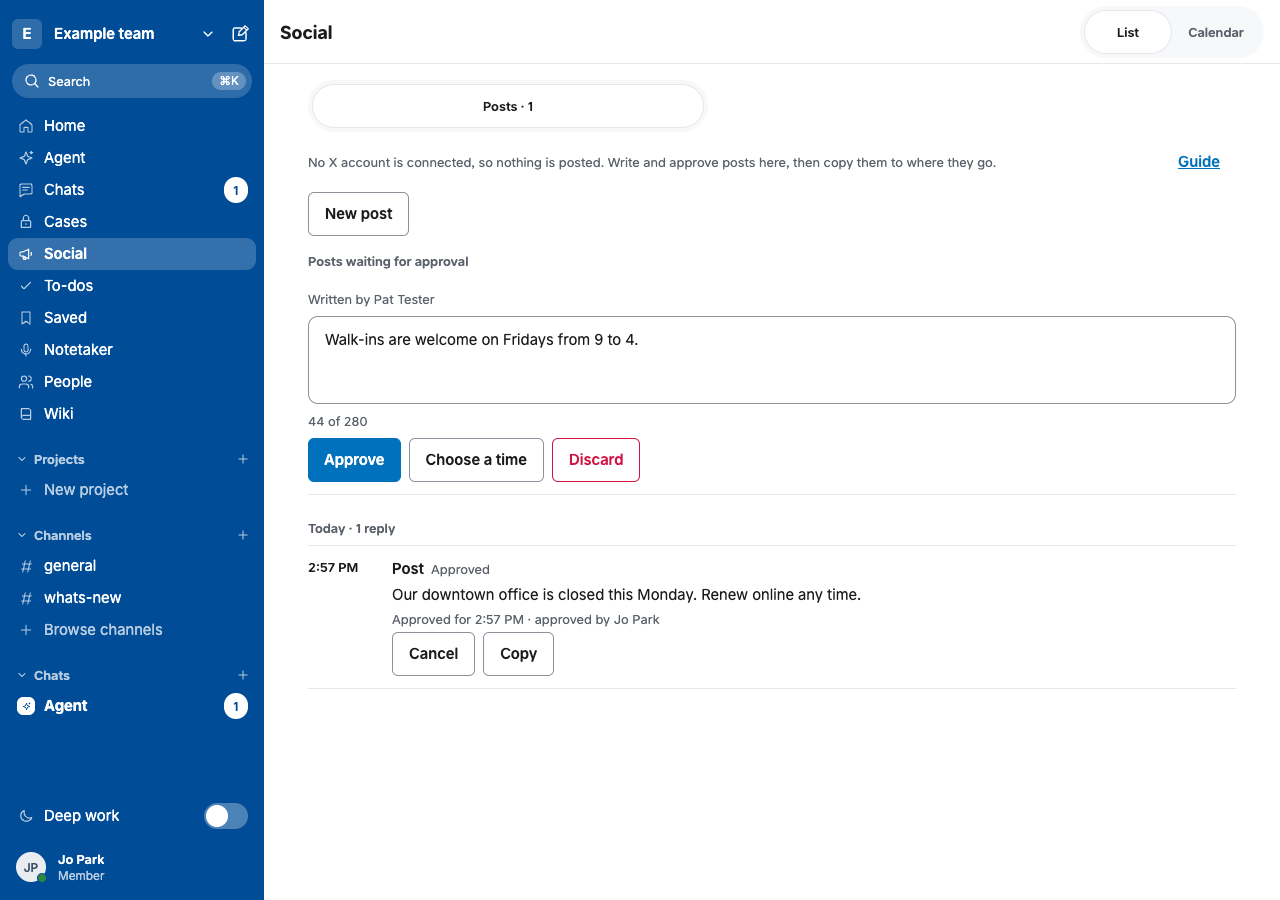
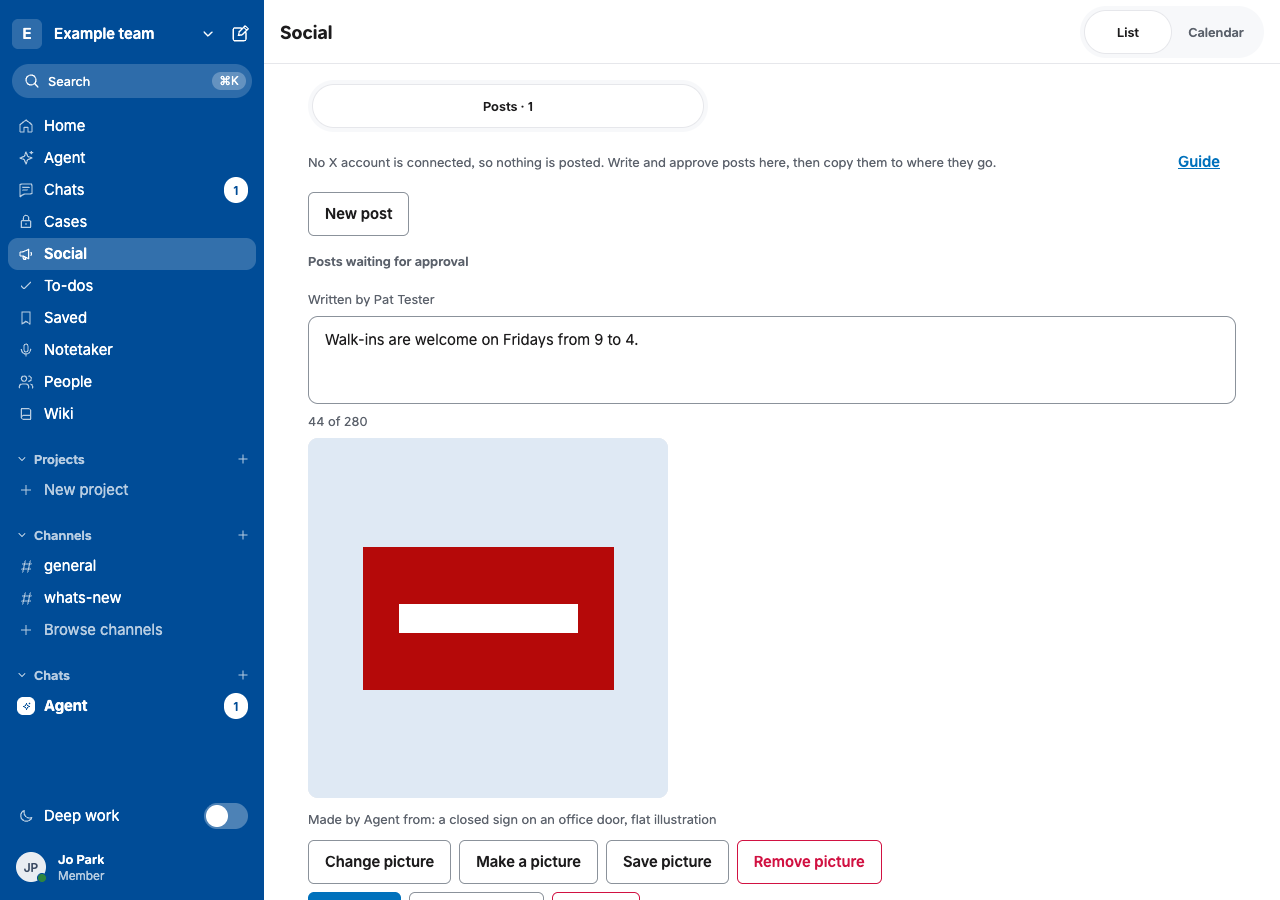
Social media: a post can carry a picture, attached or made by the asker's own agent
One picture per reply or post: Add picture attaches one, Make a picture asks Agent from a few words, Save picture
downloads it. A new picture needs a new approval, and earlier pictures are kept. Servant does not send pictures to X
yet, so a post with one is never posted there as words alone.

Changed region(s): [[0.2188, 0.4667, 0.6875, 1.0]]

diff --git a/app/src/components/SocialPicture.tsx b/app/src/components/SocialPicture.tsx
@@ -1,0 +1,98 @@
+import { useEffect, useRef, useState } from "react";
+import { Image, StyleSheet, Text, TextInput, View } from "react-native";
+import { Button, ButtonGroup } from "./Button";
+import { pickAttachments } from "./Attachments";
+import { shareAttachment } from "./MediaGallery";
+import type { Account } from "../lib/server";
+import { pictureLine, type SocialReply } from "../lib/social";
+import { socialApi } from "../lib/social-api";
+import { createThemedStyles, radius, space, typography, useTheme } from "../lib/theme";
+
+const said = (reason: unknown, fallback: string) => reason instanceof Error && reason.message ? reason.message : fallback;
+
+/**
+ * The picture a post carries. While the post can still change (`onReply` given) someone can attach one, ask Agent
+ * to make one from a few words, or take it off; a new picture needs a new approval, like new words. Anyone can
+ * save the picture, to post it by hand where Servant doesn't.
+ */
+export function SocialPicture({ account, reply, label, onReply }: {
+  account: Account; reply: SocialReply;
+  /** What the post is, for button labels: "Post" or "Reply to Jo Park (@jopark)". */
+  label: string;
+  /** The reply after its picture changed. Absent when the post can no longer change. */
+  onReply?: (reply: SocialReply) => void;
+}) {
+  const styles = useStyles();
+  const { colors } = useTheme();
+  const [shown, setShown] = useState<{ id: string; mime: string; data: string } | null>(null);
+  const [busy, setBusy] = useState<"attach" | "make" | "remove" | "save" | null>(null);
+  const [asking, setAsking] = useState(false);
+  const [prompt, setPrompt] = useState("");
+  const [error, setError] = useState("");
+  const mounted = useRef(true);
+  useEffect(() => { mounted.current = true; return () => { mounted.current = false; }; }, []);
+
+  const imageId = reply.image?.id;
+  useEffect(() => {
+    if (!imageId) return;
+    const stop = new AbortController();
+    socialApi.image(account, reply.id, stop.signal)
+      .then(file => { if (!stop.signal.aborted) setShown({ id: imageId, mime: file.mime, data: file.data }); })
+      .catch(reason => { if (!stop.signal.aborted) setError(said(reason, "Couldn't load the picture. Open Social again.")); });
+    return () => stop.abort();
+  }, [account, reply.id, imageId]);
+
+  const run = async (what: NonNullable<typeof busy>, work: () => Promise<void>, failed: string) => {
+    if (busy) return;
+    setBusy(what); setError("");
+    try { await work(); } catch (reason) { if (mounted.current) setError(said(reason, failed)); } finally { if (mounted.current) setBusy(null); }
+  };
+  const attach = () => run("attach", async () => {
+    const [file] = await pickAttachments(true, [], { limit: 1, imagesOnly: true });
+    if (!file) return;
+    onReply?.((await socialApi.attachImage(account, reply.id, { name: file.name, data: file.data })).reply);
+  }, "Couldn't attach that picture. Try again.");
+  const make = () => run("make", async () => {
+    const next = (await socialApi.makeImage(account, reply.id, prompt.trim())).reply;
+    if (mounted.current) { setAsking(false); setPrompt(""); }
+    onReply?.(next);
+  }, "Agent couldn't make a picture. Try again, or attach one.");
+
+  const image = reply.image;
+  const loaded = image && shown?.id === image.id ? shown : null;
+  return <View testID={`social-picture-${reply.id}`} style={styles.root}>
+    {image ? <>
+      {loaded
+        ? <Image testID={`social-image-${reply.id}`} accessibilityLabel={image.byAgent && image.prompt ? `Picture for this post, made by Agent: ${image.prompt}` : `Picture for this post: ${image.name}`} source={{ uri: `data:${loaded.mime};base64,${loaded.data}` }} resizeMode="contain" style={styles.image} />
+        : <View style={[styles.image, styles.waiting]}><Text style={styles.meta}>{error ? "The picture didn't load." : "Loading the picture…"}</Text></View>}
+      <Text style={styles.meta}>{pictureLine(image)}</Text>
+    </> : null}
+    {asking ? <View style={styles.askRow}>
+      <TextInput testID={`social-picture-prompt-${reply.id}`} accessibilityLabel="What the picture should show" placeholder="What should the picture show? For example: a closed sign on an office door, flat illustration" placeholderTextColor={colors.muted}
+        value={prompt} onChangeText={setPrompt} maxLength={500} editable={!busy} autoFocus style={styles.ask} />
+      <ButtonGroup>
+        <Button testID={`social-picture-go-${reply.id}`} label="Ask Agent" compact busy={busy === "make"} disabled={!prompt.trim() || !!busy} onPress={() => void make()} />
+        <Button label="Cancel" kind="link" compact disabled={!!busy} onPress={() => { setAsking(false); setPrompt(""); setError(""); }} />
+      </ButtonGroup>
+      {busy === "make" ? <Text style={styles.meta}>Agent is making the picture. This can take a minute.</Text> : null}
+    </View> : <ButtonGroup>
+      {onReply ? <Button testID={`social-picture-add-${reply.id}`} label={image ? "Change picture" : "Add picture"} accessibilityLabel={`${image ? "Change" : "Add"} picture: ${label}`} kind="secondary" compact busy={busy === "attach"} disabled={!!busy} onPress={() => void attach()} /> : null}
+      {onReply ? <Button testID={`social-picture-make-${reply.id}`} label="Make a picture" accessibilityLabel={`Ask Agent to make a picture: ${label}`} kind="secondary" compact disabled={!!busy} onPress={() => { setError(""); setAsking(true); }} /> : null}
+      {image && loaded ? <Button testID={`social-picture-save-${reply.id}`} label="Save picture" accessibilityLabel={`Save picture: ${label}`} kind="secondary" compact busy={busy === "save"} disabled={!!busy}
+        onPress={() => void run("save", () => shareAttachment({ id: image.id, name: image.name, mime: image.mime, size: image.size }, loaded.data), "Couldn't save the picture. Try again.")} /> : null}
+      {image && onReply ? <Button testID={`social-picture-remove-${reply.id}`} label="Remove picture" accessibilityLabel={`Remove picture: ${label}`} kind="danger" compact busy={busy === "remove"} disabled={!!busy}
+        onPress={() => void run("remove", async () => { onReply((await socialApi.removeImage(account, reply.id)).reply); }, "Couldn't remove the picture. Try again.")} /> : null}
+    </ButtonGroup>}
+    {error ? <Text accessibilityRole="alert" style={styles.error}>{error}</Text> : null}
+  </View>;
+}
+
+const useStyles = createThemedStyles(({ colors, controls }) => StyleSheet.create({
+  root: { gap: space.sm },
+  image: { width: "100%", maxWidth: 360, aspectRatio: 1, borderRadius: radius.md, backgroundColor: colors.line },
+  waiting: { alignItems: "center", justifyContent: "center" },
+  meta: { ...typography.caption, color: colors.muted },
+  askRow: { gap: space.sm },
+  ask: { ...controls.input },
+  error: { ...typography.caption, color: colors.danger },
+}));

diff --git a/app/src/lib/social.test.ts b/app/src/lib/social.test.ts
@@ -1,6 +1,6 @@
 import assert from "node:assert/strict";
 import test from "node:test";
-import { agoLabel, cellLabel, connectionLine, dayKey, lengthLine, monthGrid, monthRange, parseWhen, replyBadge, replyLine, replyTarget, scheduleDays, socialDayLabel, socialWhen, sourceLine, stepMonth, undrafted, whenChoices, xLength, type SocialPost, type SocialReply } from "./social.ts";
+import { agoLabel, cellLabel, connectionLine, pictureLine, dayKey, lengthLine, monthGrid, monthRange, parseWhen, replyBadge, replyLine, replyTarget, scheduleDays, socialDayLabel, socialWhen, sourceLine, stepMonth, undrafted, whenChoices, xLength, type SocialPost, type SocialReply } from "./social.ts";
 import { DESTINATIONS, destinationGroups, reachable } from "./destinations.ts";
 import { ALL_FEATURES, normalizeFeatures, sameFeatures, withDeepWork } from "./features.ts";
 import { wikiMarkLabel, wikiMarkNote, wikiRows, type WikiPageSummary } from "./wiki.ts";
@@ -108,6 +108,7 @@ test("a time is chosen from three quick ones or typed", () => {
 
 test("the connection line and the posts left to draft", () => {
   assert.equal(connectionLine({ account: null, error: null, syncedAt: null }, NOW), "Connecting to X…");
+  assert.deepEqual([pictureLine({ id: "i", name: "closed.png", mime: "image/png", size: 9, byAgent: false }), pictureLine({ id: "i", name: "agent-image.png", mime: "image/png", size: 9, byAgent: true, prompt: "a closed sign" }), pictureLine({ id: "i", name: "agent-image.png", mime: "image/png", size: 9, byAgent: true })], ["closed.png", "Made by Agent from: a closed sign", "Made by Agent"]);
   // A server with no X account says so, and an approved post is never described as about to go out.
   assert.equal(connectionLine({ account: null, error: null, syncedAt: null, connected: false }, NOW), "No X account is connected, so nothing is posted. Write and approve posts here, then copy them to where they go.");
   assert.equal(replyBadge({ status: "scheduled" }, false), "Approved");

diff --git a/app/src/components/SocialPost.tsx b/app/src/components/SocialPost.tsx
@@ -4,6 +4,7 @@ import { router } from "expo-router";
 import { Button, ButtonGroup } from "./Button";
 import { Avatar } from "./Messaging";
 import { Radio } from "./Radio";
+import { SocialPicture } from "./SocialPicture";
 import type { Account } from "../lib/server";
 import { agoLabel, lengthLine, NEEDS_ENTITLEMENT, parseWhen, replyLine, sourceLine, whenChoices, type SocialPost, type SocialReply } from "../lib/social";
 import { socialApi } from "../lib/social-api";
@@ -154,6 +155,7 @@ export function SocialReplyEditor({ account, reply, to, canApprove, limit, onRep
     <TextInput testID={`social-text-${reply.id}`} accessibilityLabel={label} value={text} onChangeText={setText} onBlur={save} multiline editable={busy !== "approve" && busy !== "discard" && busy !== "redraft"}
       placeholderTextColor={colors.muted} style={styles.input} />
     <Text testID={`social-count-${reply.id}`} style={[styles.meta, count.over && styles.over]}>{count.over ? `${count.text}. Shorten it before it can be approved.` : count.text}</Text>
+    <SocialPicture account={account} reply={reply} label={label} onReply={onReply} />
     {asking && onRedraft ? <View style={styles.askRow}>
       <TextInput testID={`social-instruction-${reply.id}`} accessibilityLabel="What Agent should change" placeholder="What should change? For example: shorter, or mention the help page" placeholderTextColor={colors.muted}
         value={instruction} onChangeText={setInstruction} maxLength={500} editable={!busy} autoFocus style={styles.ask} />

diff --git a/app/src/lib/social-api.ts b/app/src/lib/social-api.ts
@@ -26,4 +26,10 @@ export const socialApi = {
   approve: (account: Account, replyId: string, at?: number) => request(account, `${reply(replyId)}/approve`, send("POST", at ? { at } : {})).then(json<{ reply: SocialReply }>),
   cancel: (account: Account, replyId: string) => request(account, `${reply(replyId)}/cancel`, send("POST")).then(json<{ reply: SocialReply }>),
   discard: (account: Account, replyId: string) => request(account, `${reply(replyId)}/discard`, send("POST")).then(json<{ reply: SocialReply; post: SocialPost | null }>),
+  /** A picture someone attached: { name, data } with the bytes in base64. It replaces any the post had. */
+  attachImage: (account: Account, replyId: string, file: { name: string; data: string }) => request(account, `${reply(replyId)}/image`, send("PUT", { attachments: [{ name: file.name, data: file.data }] })).then(json<{ reply: SocialReply }>),
+  /** A picture the person's own agent makes from a few words. */
+  makeImage: (account: Account, replyId: string, prompt: string) => request(account, `${reply(replyId)}/image`, send("PUT", { prompt })).then(json<{ reply: SocialReply }>),
+  removeImage: (account: Account, replyId: string) => request(account, `${reply(replyId)}/image`, send("DELETE")).then(json<{ reply: SocialReply }>),
+  image: (account: Account, replyId: string, signal?: AbortSignal) => request(account, `${reply(replyId)}/image`, { signal }).then(json<{ name: string; mime: string; data: string }>),
 };

diff --git a/app/src/components/SocialSchedule.tsx b/app/src/components/SocialSchedule.tsx
@@ -2,6 +2,7 @@ import { useState } from "react";
 import { Linking, Pressable, StyleSheet, Text, View } from "react-native";
 import * as Clipboard from "expo-clipboard";
 import { Button, ButtonGroup } from "./Button";
+import { SocialPicture } from "./SocialPicture";
 import type { Account } from "../lib/server";
 import { cellLabel, monthGrid, monthTitle, replyBadge, replyLine, replyTarget, replyTime, scheduleDays, socialDayLabel, stepMonth, type CalendarCell, type SocialReply } from "../lib/social";
 import { socialApi } from "../lib/social-api";
@@ -41,6 +42,7 @@ function Entry({ account, reply, canApprove, connected, onChanged }: { account: 
       <Text style={styles.target}>{target}<Text style={[styles.badge, reply.status === "failed" && styles.failed]}>{`  ${replyBadge(reply, connected)}`}</Text></Text>
       {reply.post ? <Text style={styles.quote}>{reply.post.text}</Text> : null}
       <Text selectable style={styles.words}>{reply.text}</Text>
+      {reply.image ? <SocialPicture account={account} reply={reply} label={target} /> : null}
       <Text style={[styles.meta, reply.status === "failed" && styles.failed]}>{replyLine(reply, undefined, connected)}</Text>
       {reply.lesson ? <Text testID={`social-lesson-${reply.id}`} style={styles.meta}>{`The guide learned from the edit: ${reply.lesson}`}</Text> : null}
       <ButtonGroup>

diff --git a/app/src/lib/social.ts b/app/src/lib/social.ts
@@ -13,7 +13,15 @@ export type SocialReply = {
   /** What the guide learned from the change a person made to this draft. */
   lesson?: string;
   post?: SocialPost;
+  /** The picture the post carries, if any. Its bytes are asked for separately (social-api.ts `image`). */
+  image?: SocialImage;
 };
+/** `byAgent` when Agent made it, from `prompt`; otherwise someone attached it. */
+export type SocialImage = { id: string; name: string; mime: string; size: number; byAgent: boolean; prompt?: string };
+
+/** The line under a post's picture: where it came from. */
+export const pictureLine = (image: SocialImage) => image.byAgent ? `Made by Agent${image.prompt ? ` from: ${image.prompt}` : ""}` : image.name;
+
 export type SocialPost = {
   id: string; kind: "mention" | "search"; search?: string;
   author: { name: string; handle: string; avatar?: string };

diff --git a/docs/social.md b/docs/social.md
@@ -53,6 +53,17 @@ Drafts are written by the restricted member agent (`upstreams.member`, [member-s
 
 An approval does not outlive the entitlement. When a reply's time comes, the server checks that the person who approved it still holds Social media; if not, the reply goes back to a draft and says why.
 
+## Pictures
+
+A reply or a post can carry one picture (PNG, JPEG, GIF or WebP, up to 5 MB). Under the words there are two ways to add one:
+
+- **Add picture** attaches one from the device.
+- **Make a picture** asks Agent for one from a few words ("a closed sign on an office door, flat illustration"). It is the asker's own agent, the one their chats use, so it can make a picture only if that agent can: it needs an image generator set up, and the restricted agent members get has no tools and will say so. The words are sent as a description of one picture; whatever comes back is used only if it is an image. Token counts are recorded against the person who asked.
+
+A new picture, like new words, needs a new approval. **Save picture** downloads it (or opens the share sheet on a phone), so a post can be taken to wherever it goes. Pictures are never deleted: taking one off or replacing it keeps the earlier one in `social.db`.
+
+**Servant does not send pictures to X yet.** On a server with an X account, approving a post that has a picture is refused with that reason, and a post approved with a picture before the account was connected is marked "not posted" when its time comes, never sent as words alone. Copy the words and save the picture to post it by hand, or take the picture off.
+
 ## When replies go out
 
 Approving puts a reply at the **next opening**: now, or `spacingMinutes` after the nearest reply already waiting or just sent. Approving thirty drafts in a row sends them one after another over an hour rather than all at once. A reply scheduled for tomorrow does not hold up one approved now.
@@ -110,6 +121,9 @@ All under `/v1/social`, signed in, and `404 feature_off` when social media is of
 | `POST /v1/social/posts/:id/skip`, `/restore` | Skip a post, or bring it back |
 | `POST /v1/social/replies` | A post of your own: `note` for Agent to write up, or `text` |
 | `PUT /v1/social/replies/:id` | Change a reply's words |
+| `PUT /v1/social/replies/:id/image` | Put a picture on it: `attachments` with one image, or `prompt` for Agent to make one |
+| `GET /v1/social/replies/:id/image` | The picture's bytes, to show or save it |
+| `DELETE /v1/social/replies/:id/image` | Take the picture off |
 | `POST /v1/social/replies/:id/approve` | Approve (`at` for a time). Needs Social media |
 | `POST /v1/social/replies/:id/cancel` | Take an approval back. Needs Social media |
 | `POST /v1/social/replies/:id/discard` | Discard a draft |
